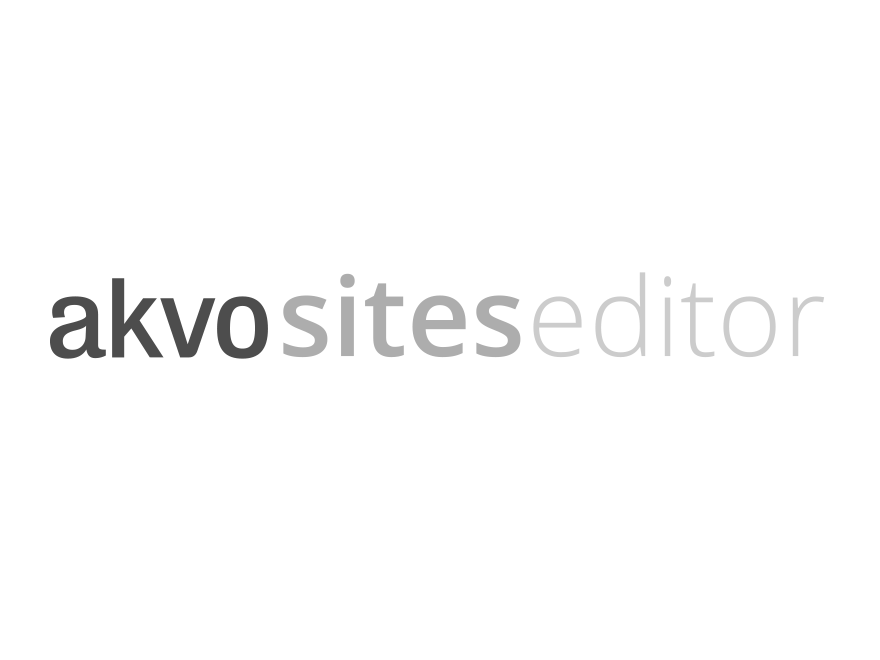
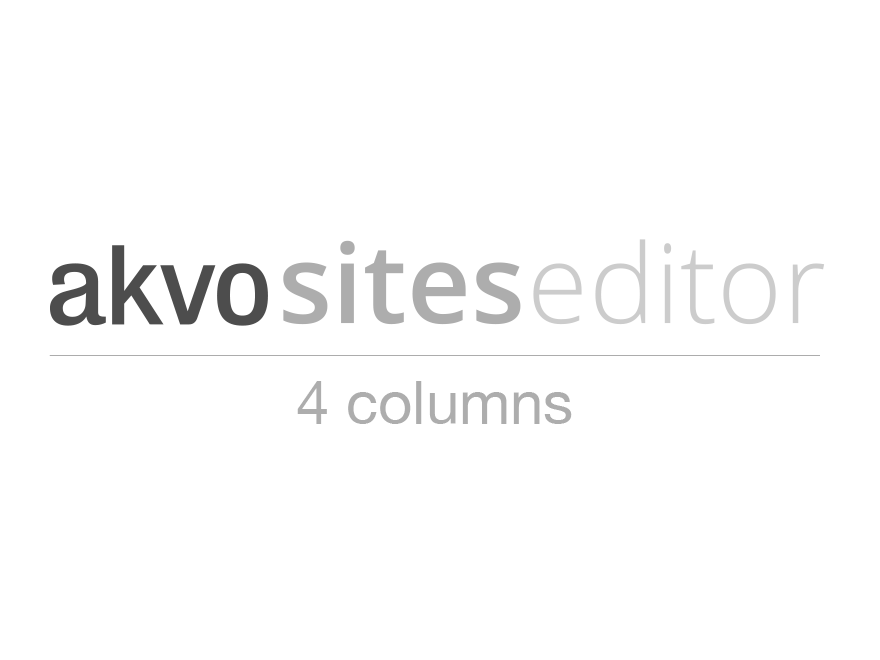
added 3 col theme

Changed region(s): [[0.0307, 0.3636, 0.9511, 0.5455], [0.3375, 0.5758, 0.6443, 0.6667]]

diff --git a/style.css b/style.css
@@ -1,7 +1,7 @@
 /*
-Theme Name:         AKVO Sites base theme
+Theme Name:         AKVO Sites base theme - 4 columns
 Theme URI:          https://www.akvo.nl/
-Description:        This is the base theme for AKVO sites.
+Description:        This is the base theme for AKVO sites with a four column feel.
 Version:            1.0
 Author:             Zimmerman & Zimmerman
 Author URI:         https://www.zimmermanzimmerman.nl/
